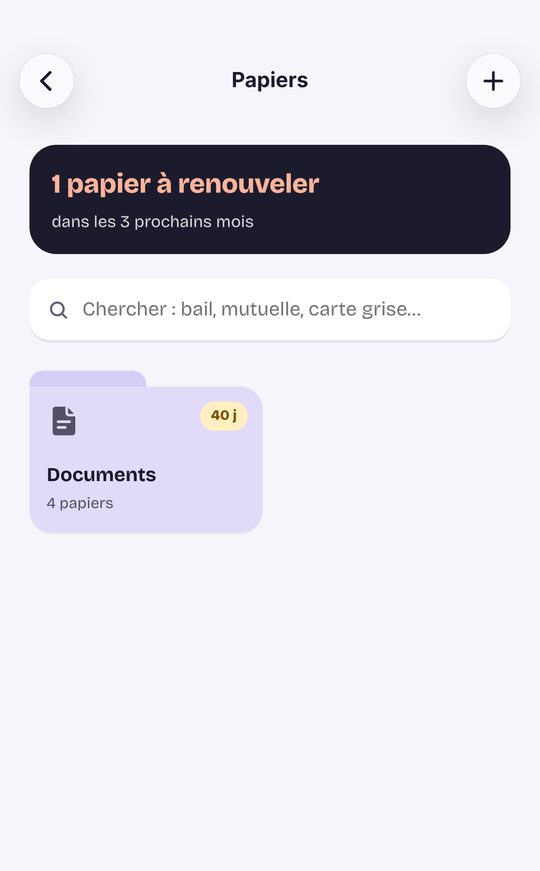
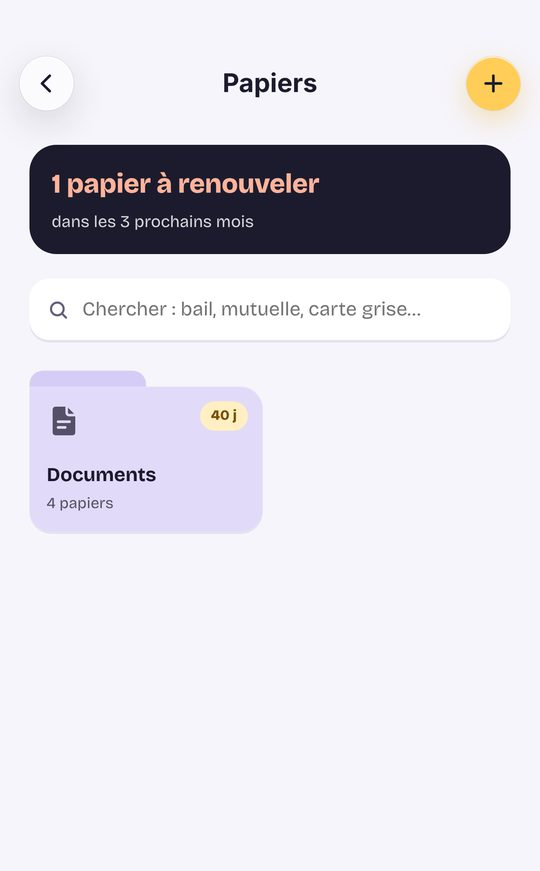
Site et App Store : boutons iOS comme dans l'app (même position, + jaune), glisser des cartes limité, flèches fixes
Claude-Session: https://claude.ai/code/session_014PtC1bhXvDyL6jkTpmKN4j

Changed region(s): [[0.4148, 0.062, 0.5926, 0.124], [0.8593, 0.062, 0.9778, 0.155], [0.0593, 0.093, 0.0889, 0.124]]

diff --git a/presentation/contenu.html b/presentation/contenu.html
@@ -94,12 +94,12 @@ section{padding-block:56px}
 /* « Tout le foyer, une seule appli » : paquet de cartes (shuffleCardSlider). Bande sombre ; à gauche le titre et le texte de la carte
    du dessus (couleur de la rubrique), flèches en bas ; à droite de grandes cartes verticales (un écran de l'app) empilées vers la droite. */
 #rubriques{background:#141320;color:#EDEBF7;padding-block:64px 80px;overflow:hidden}
-.sh{display:grid;grid-template-columns:minmax(0,1fr);gap:34px;align-items:center}
+.sh{display:grid;grid-template-columns:minmax(0,1fr);gap:34px;align-items:stretch}
 @media (min-width:880px){.sh{grid-template-columns:minmax(0,1fr) minmax(0,1fr);min-height:600px}}
-.sh-txt{display:flex;flex-direction:column;gap:14px;min-width:0}
+.sh-txt{display:flex;flex-direction:column;justify-content:center;gap:14px;min-width:0}
 .sh-txt .eyebrow{color:#A3A0BE}
 .sh-txt h2{font-size:clamp(38px,6vw,64px);line-height:1;letter-spacing:-.035em;color:var(--sc,#B9A8F0);transition:color .35s}
-.sh-txt .lead{color:#C9C6E0;max-width:42ch;min-height:4.8em}
+.sh-txt .lead{color:#C9C6E0;max-width:42ch}
 .sh-txt .fade{transition:opacity .25s,transform .25s}.sh-txt .fade.out{opacity:0;transform:translateY(6px)}
 .sh-nav{display:flex;gap:12px;margin-top:auto;padding-top:18px;align-items:center}
 .sh-nav button{width:76px;height:46px;border-radius:99px;border:1.5px solid rgba(255,255,255,.28);background:transparent;color:#EDEBF7;font:700 20px/1 var(--f-display);cursor:pointer;transition:background .2s,border-color .2s}
@@ -338,9 +338,15 @@ function shuffleCardSlider(o){
   const reduce=matchMedia("(prefers-reduced-motion: reduce)").matches, T1=reduce?0:300, T2=reduce?0:520;
   /* éventail : toutes les cartes tournent autour d'un point sous le paquet, de plus en plus inclinées et sombres */
   const fan=k=>"rotate("+(k*4.6)+"deg) scale("+(1-k*.012)+")";
-  const OUT="translateX(-118%) rotate(-14deg)";
+  const OUT="translateX(-46%) rotate(-11deg)";   /* sortie courte : la carte reste dans la zone du paquet */
   function text(ci){ const c=cards[ci], sw=()=>{ o.title.textContent=c.dataset.t; o.text.textContent=c.dataset.p; o.title.style.setProperty("--sc",c.dataset.c); o.num.textContent=(ci+1)+" / "+n; };
     if(reduce){ sw(); return; } [o.title,o.text].forEach(e=>e.classList.add("out")); setTimeout(()=>{ sw(); [o.title,o.text].forEach(e=>e.classList.remove("out")); },220); }
+  /* place réservée = le titre et le texte les plus hauts des 8 cartes : les flèches ne bougent plus d'une carte à l'autre */
+  function fit(){ for(const e of [o.title,o.text]) e.style.minHeight="0";
+    const cur=[o.title.textContent,o.text.textContent]; let ht=0, hp=0;
+    for(const c of cards){ o.title.textContent=c.dataset.t; o.text.textContent=c.dataset.p; ht=Math.max(ht,o.title.offsetHeight); hp=Math.max(hp,o.text.offsetHeight); }
+    o.title.textContent=cur[0]; o.text.textContent=cur[1]; o.title.style.minHeight=ht+"px"; o.text.style.minHeight=hp+"px"; }
+  fit(); addEventListener("resize",fit); if(document.fonts&&document.fonts.ready) document.fonts.ready.then(fit);
   function layout(){ order.forEach((ci,k)=>{ const c=cards[ci];
       c.style.zIndex=String(n-k); c.setAttribute("aria-hidden",k?"true":"false");
       c.style.filter="brightness("+Math.max(.42,1-k*.085)+")"; c.style.transform=fan(k); }); }
@@ -357,8 +363,9 @@ function shuffleCardSlider(o){
   /* glisser la carte du dessus (suivi sur toute la fenêtre) : au-delà de 80 px elle part, sinon elle revient */
   let x0=null,dx=0,id=null;
   deck.addEventListener("pointerdown",e=>{ const top=cards[order[0]]; if(busy||!top.contains(e.target)) return; e.preventDefault(); x0=e.clientX; dx=0; id=e.pointerId; top.classList.add("drag"); });
-  addEventListener("pointermove",e=>{ if(x0==null||e.pointerId!==id) return; dx=e.clientX-x0; cards[order[0]].style.transform="translateX("+dx+"px) rotate("+(dx/18)+"deg)"; });
-  const end=e=>{ if(x0==null||e.pointerId!==id) return; x0=null; cards[order[0]].classList.remove("drag"); if(Math.abs(dx)>80) go(1); else layout(); };   /* glissée d'un côté ou de l'autre : la carte repasse derrière */
+  addEventListener("pointermove",e=>{ if(x0==null||e.pointerId!==id) return; dx=e.clientX-x0; const L=150, d=Math.abs(dx)<=L?dx:Math.sign(dx)*(L+(Math.abs(dx)-L)*.15);   /* au-delà de 150 px, elle résiste puis s'arrête */
+    cards[order[0]].style.transform="translateX("+d+"px) rotate("+(d/18)+"deg)"; });
+  const end=e=>{ if(x0==null||e.pointerId!==id) return; x0=null; cards[order[0]].classList.remove("drag"); if(Math.abs(dx)>70) go(1); else layout(); };   /* glissée d'un côté ou de l'autre : la carte repasse derrière */
   addEventListener("pointerup",end); addEventListener("pointercancel",end);
   layout(); text(order[0]); }
 shuffleCardSlider({deck:document.getElementById("deck"),prev:document.getElementById("deckPrev"),next:document.getElementById("deckNext"),

diff --git a/presentation/index.html b/presentation/index.html
@@ -95,12 +95,12 @@ section{padding-block:56px}
 /* « Tout le foyer, une seule appli » : paquet de cartes (shuffleCardSlider). Bande sombre ; à gauche le titre et le texte de la carte
    du dessus (couleur de la rubrique), flèches en bas ; à droite de grandes cartes verticales (un écran de l'app) empilées vers la droite. */
 #rubriques{background:#141320;color:#EDEBF7;padding-block:64px 80px;overflow:hidden}
-.sh{display:grid;grid-template-columns:minmax(0,1fr);gap:34px;align-items:center}
+.sh{display:grid;grid-template-columns:minmax(0,1fr);gap:34px;align-items:stretch}
 @media (min-width:880px){.sh{grid-template-columns:minmax(0,1fr) minmax(0,1fr);min-height:600px}}
-.sh-txt{display:flex;flex-direction:column;gap:14px;min-width:0}
+.sh-txt{display:flex;flex-direction:column;justify-content:center;gap:14px;min-width:0}
 .sh-txt .eyebrow{color:#A3A0BE}
 .sh-txt h2{font-size:clamp(38px,6vw,64px);line-height:1;letter-spacing:-.035em;color:var(--sc,#B9A8F0);transition:color .35s}
-.sh-txt .lead{color:#C9C6E0;max-width:42ch;min-height:4.8em}
+.sh-txt .lead{color:#C9C6E0;max-width:42ch}
 .sh-txt .fade{transition:opacity .25s,transform .25s}.sh-txt .fade.out{opacity:0;transform:translateY(6px)}
 .sh-nav{display:flex;gap:12px;margin-top:auto;padding-top:18px;align-items:center}
 .sh-nav button{width:76px;height:46px;border-radius:99px;border:1.5px solid rgba(255,255,255,.28);background:transparent;color:#EDEBF7;font:700 20px/1 var(--f-display);cursor:pointer;transition:background .2s,border-color .2s}
@@ -339,9 +339,15 @@ function shuffleCardSlider(o){
   const reduce=matchMedia("(prefers-reduced-motion: reduce)").matches, T1=reduce?0:300, T2=reduce?0:520;
   /* éventail : toutes les cartes tournent autour d'un point sous le paquet, de plus en plus inclinées et sombres */
   const fan=k=>"rotate("+(k*4.6)+"deg) scale("+(1-k*.012)+")";
-  const OUT="translateX(-118%) rotate(-14deg)";
+  const OUT="translateX(-46%) rotate(-11deg)";   /* sortie courte : la carte reste dans la zone du paquet */
   function text(ci){ const c=cards[ci], sw=()=>{ o.title.textContent=c.dataset.t; o.text.textContent=c.dataset.p; o.title.style.setProperty("--sc",c.dataset.c); o.num.textContent=(ci+1)+" / "+n; };
     if(reduce){ sw(); return; } [o.title,o.text].forEach(e=>e.classList.add("out")); setTimeout(()=>{ sw(); [o.title,o.text].forEach(e=>e.classList.remove("out")); },220); }
+  /* place réservée = le titre et le texte les plus hauts des 8 cartes : les flèches ne bougent plus d'une carte à l'autre */
+  function fit(){ for(const e of [o.title,o.text]) e.style.minHeight="0";
+    const cur=[o.title.textContent,o.text.textContent]; let ht=0, hp=0;
+    for(const c of cards){ o.title.textContent=c.dataset.t; o.text.textContent=c.dataset.p; ht=Math.max(ht,o.title.offsetHeight); hp=Math.max(hp,o.text.offsetHeight); }
+    o.title.textContent=cur[0]; o.text.textContent=cur[1]; o.title.style.minHeight=ht+"px"; o.text.style.minHeight=hp+"px"; }
+  fit(); addEventListener("resize",fit); if(document.fonts&&document.fonts.ready) document.fonts.ready.then(fit);
   function layout(){ order.forEach((ci,k)=>{ const c=cards[ci];
       c.style.zIndex=String(n-k); c.setAttribute("aria-hidden",k?"true":"false");
       c.style.filter="brightness("+Math.max(.42,1-k*.085)+")"; c.style.transform=fan(k); }); }
@@ -358,8 +364,9 @@ function shuffleCardSlider(o){
   /* glisser la carte du dessus (suivi sur toute la fenêtre) : au-delà de 80 px elle part, sinon elle revient */
   let x0=null,dx=0,id=null;
   deck.addEventListener("pointerdown",e=>{ const top=cards[order[0]]; if(busy||!top.contains(e.target)) return; e.preventDefault(); x0=e.clientX; dx=0; id=e.pointerId; top.classList.add("drag"); });
-  addEventListener("pointermove",e=>{ if(x0==null||e.pointerId!==id) return; dx=e.clientX-x0; cards[order[0]].style.transform="translateX("+dx+"px) rotate("+(dx/18)+"deg)"; });
-  const end=e=>{ if(x0==null||e.pointerId!==id) return; x0=null; cards[order[0]].classList.remove("drag"); if(Math.abs(dx)>80) go(1); else layout(); };   /* glissée d'un côté ou de l'autre : la carte repasse derrière */
+  addEventListener("pointermove",e=>{ if(x0==null||e.pointerId!==id) return; dx=e.clientX-x0; const L=150, d=Math.abs(dx)<=L?dx:Math.sign(dx)*(L+(Math.abs(dx)-L)*.15);   /* au-delà de 150 px, elle résiste puis s'arrête */
+    cards[order[0]].style.transform="translateX("+d+"px) rotate("+(d/18)+"deg)"; });
+  const end=e=>{ if(x0==null||e.pointerId!==id) return; x0=null; cards[order[0]].classList.remove("drag"); if(Math.abs(dx)>70) go(1); else layout(); };   /* glissée d'un côté ou de l'autre : la carte repasse derrière */
   addEventListener("pointerup",end); addEventListener("pointercancel",end);
   layout(); text(order[0]); }
 shuffleCardSlider({deck:document.getElementById("deck"),prev:document.getElementById("deckPrev"),next:document.getElementById("deckNext"),

diff --git a/outils/appstore/ios.js b/outils/appstore/ios.js
@@ -13,8 +13,10 @@
   #iosHome{position:fixed;left:50%;bottom:8px;width:140px;height:5px;margin-left:-70px;border-radius:9px;background:#1C1B2E;z-index:10000}
   #iosTop{position:fixed;left:0;right:0;z-index:9998;display:flex;align-items:center;justify-content:space-between;padding:0 16px;pointer-events:none}
   #iosTop .b{width:44px;height:44px;border-radius:50%;display:grid;place-items:center;color:#1C1B2E}
-  #iosTop .b svg{width:22px;height:22px}
-  #iosTop b{font:700 17px/1 -apple-system,"SF Pro Text","Bricolage Grotesque",sans-serif;color:#1C1B2E}
+  #iosTop .b svg{width:20px;height:20px}
+  #iosTop .b.pro{background:rgba(255,201,74,.92);box-shadow:inset 0 1px 0 rgba(255,255,255,.7),0 0 0 .5px rgba(28,27,46,.10),0 8px 22px rgba(232,160,0,.28)}
+  #iosTop .acts{display:flex;gap:10px}
+  #iosTop b{position:absolute;left:50%;transform:translateX(-50%);font:700 21px/1 -apple-system,"SF Pro Display","Bricolage Grotesque",sans-serif;color:#1C1B2E;white-space:nowrap}
   #iosTop .sp{width:44px}`;
   document.head.append(css);
   const I={
@@ -22,7 +24,8 @@
     people:'<svg viewBox="0 0 24 24"><circle cx="9" cy="8" r="3.6" fill="currentColor"/><circle cx="17.2" cy="9" r="2.8" fill="currentColor"/><path d="M2.5 19.2c0-3.4 2.9-5.6 6.5-5.6s6.5 2.2 6.5 5.6c0 .8-.5 1.3-1.3 1.3H3.8c-.8 0-1.3-.5-1.3-1.3Z" fill="currentColor"/><path d="M16.3 20.5h4.1c.7 0 1.1-.4 1.1-1.1 0-2.6-2-4.4-4.6-4.4-.9 0-1.7.2-2.4.6 1.2 1.1 1.9 2.6 1.9 4.4 0 .2 0 .3-.1.5Z" fill="currentColor"/></svg>',
     person:'<svg viewBox="0 0 24 24"><circle cx="12" cy="12" r="9.6" fill="none" stroke="currentColor" stroke-width="1.8"/><circle cx="12" cy="9.6" r="3.4" fill="currentColor"/><path d="M5.9 18.3c1.3-2 3.5-3.2 6.1-3.2s4.8 1.2 6.1 3.2" fill="none" stroke="currentColor" stroke-width="1.8" stroke-linecap="round"/></svg>',
     back:'<svg viewBox="0 0 24 24"><path d="M15 4.5 7.5 12l7.5 7.5" fill="none" stroke="currentColor" stroke-width="2.6" stroke-linecap="round" stroke-linejoin="round"/></svg>',
-    plus:'<svg viewBox="0 0 24 24"><path d="M12 4.5v15M4.5 12h15" fill="none" stroke="currentColor" stroke-width="2.4" stroke-linecap="round"/></svg>'};
+    plus:'<svg viewBox="0 0 24 24"><path d="M12 4.5v15M4.5 12h15" fill="none" stroke="currentColor" stroke-width="2.6" stroke-linecap="round"/></svg>',
+    cal:'<svg viewBox="0 0 24 24"><rect x="3.5" y="5" width="17" height="15.5" rx="3" fill="none" stroke="currentColor" stroke-width="2"/><path d="M3.5 10h17M8 3v4M16 3v4" stroke="currentColor" stroke-width="2" stroke-linecap="round"/></svg>'};
   window.__ios=function(on){
     document.documentElement.classList.add("native-tabs");
     document.querySelectorAll("#iosTab,#iosHome,#iosTop").forEach(e=>e.remove());
@@ -33,8 +36,12 @@
     const h=document.createElement("div"); h.id="iosHome"; document.body.append(h);
     /* barre du haut d'une rubrique : la barre web (cachée en mode natif) donne la position, le titre et s'il y a un « + » */
     const bar=document.querySelector(".view:not([hidden]) .hub-bar");
-    if(bar){ const r=bar.getBoundingClientRect(), tt=(bar.querySelector(".hb-title,b")||{}).textContent||"", add=!!bar.querySelector(".hub-add");
-      const top=document.createElement("div"); top.id="iosTop"; top.style.top=Math.round(r.top+r.height/2-22)+"px";
-      top.innerHTML='<span class="b ios-glass">'+I.back+'</span><b>'+tt+'</b>'+(add?'<span class="b ios-glass">'+I.plus+'</span>':'<span class="sp"></span>'); document.body.append(top); }
+    /* comme l'app (sync → NT.topbar) : position = offsetTop de la barre web (sans les animations d'arrivée), retour en verre,
+       « sync » = calendrier en verre, « + » = verre jaune (prominentGlass), titre en 21 pt gras */
+    if(bar){ let y=0; for(let n=bar;n;n=n.offsetParent) y+=n.offsetTop; y-=scrollY;
+      const tt=(bar.querySelector(".hb-title")||{}).textContent||"", back=!!bar.querySelector(".hub-back,.pg-back");
+      const acts=(bar.querySelector(".hub-sync")?'<span class="b ios-glass">'+I.cal+'</span>':"")+(bar.querySelector(".hub-add")?'<span class="b ios-glass pro">'+I.plus+'</span>':"");
+      const top=document.createElement("div"); top.id="iosTop"; top.style.top=Math.round(y+Math.max(0,(bar.offsetHeight-44)/2))+"px"; top.style.height="44px";
+      top.innerHTML=(back?'<span class="b ios-glass">'+I.back+'</span>':'<span class="sp"></span>')+'<b>'+tt+'</b><span class="acts">'+(acts||'<span class="sp"></span>')+'</span>'; document.body.append(top); }
   };
 })();

diff --git a/index.html b/index.html
@@ -53,7 +53,7 @@ html[data-theme="light"] #cxIntro{background:#F6F5FB!important}html[data-theme="
 <link rel="preconnect" href="https://fonts.googleapis.com">
 <link rel="preconnect" href="https://fonts.gstatic.com" crossorigin>
 <link rel="stylesheet" href="https://fonts.googleapis.com/css2?family=Bricolage+Grotesque:opsz,wght@12..96,300..800&family=Fredoka:wdth,wght@75..125,300..700&display=swap">
-<script>window.COCOON_BUILD="23/10 16:34";</script>
+<script>window.COCOON_BUILD="23/10 16:42";</script>
 <script src="config.js"></script>
 <script id="sbjs" async src="https://cdn.jsdelivr.net/npm/@supabase/supabase-js@2.45.4/dist/umd/supabase.js"></script>
 <script src="cocoon-runtime.js"></script>

diff --git a/CLAUDE.md b/CLAUDE.md
@@ -113,7 +113,7 @@ Catégories de tâches perso : `CAT[id]` avec `perso:true`, retrouvées via `cat
 - **Images App Store** (style « affiche dégradée » choisi par Angel : dégradé Cocoon Plus, logo + « Cocoon » en Fredoka comme l'app,
   titre blanc, téléphone incliné, Cocoony en coin, pas d'autocollant) : `app/appstore/appstore-1…7.jpg` (1320×2868, iPhone 6,9").
   Captures habillées « app iPhone » par `outils/appstore/ios.js` (`__ios(onglet)` : barre d'onglets Liquid Glass flottante,
-  boutons ronds en verre retour/+ et titre, barre d'accueil) ; même cadre iPhone Pro Max que le site, téléphone entier, Cocoony en haut à droite.
+  barre du haut comme `NT.topbar` : même position (offsetTop), retour en verre, calendrier en verre, « + » en verre jaune, titre 21 pt ; barre d'accueil) ; même cadre iPhone Pro Max que le site, téléphone entier, Cocoony en haut à droite.
   Pour les refaire : `bash outils/construire.sh demo` puis `python3 outils/appstore/captures.py` (foyer d'exemple `seed.js`, écrans dans
   `outils/appstore/raw/`) puis `python3 outils/appstore/affiches.py` (titres dans `PAGES`).
 - Page de présentation : `presentation/contenu.html` (à modifier, publiable tel quel en artefact, images dans `presentation/img/`)
@@ -122,7 +122,8 @@ Catégories de tâches perso : `CAT[id]` avec `perso:true`, retrouvées via `cat
   carrousel de 7 écrans, tarifs en « deux affiches » comme dans l'app. Téléphones fixes façon iPhone Pro Max (`.phone > .fr > .scr`, cadre titane,
   Dynamic Island, unités `cqw`), bandeau du haut à angles droits, pas de « L'appli du foyer ». Rubriques = bande sombre façon « card shuffle » (modèle
   envoyé par Angel) : titre coloré + texte à gauche qui suivent la carte, flèches en bas, grandes cartes verticales (écrans `img/c-*.jpg`)
-  en éventail (pivot sous le paquet) ; la carte balayée sort à gauche puis repasse derrière toutes les autres ; `shuffleCardSlider({deck,prev,next,title,text,num})` (glisser, flèches ‹ ›, clavier ←/→). Images `presentation/img/*.jpg` = captures de
+  en éventail (pivot sous le paquet) ; la carte balayée sort à gauche (sortie courte, glisser limité à ~150 px avec résistance) puis repasse derrière toutes les autres ;
+  flèches fixes (`fit()` réserve la hauteur du titre et du texte les plus longs) ; `shuffleCardSlider({deck,prev,next,title,text,num})` (glisser, flèches ‹ ›, clavier ←/→). Images `presentation/img/*.jpg` = captures de
   `outils/appstore/raw/` réduites à 600 px de large.
 - Prochaines idées : notifications natives (APNs), paiement Premium, test Android, animations du personnage (format Lottie ou Rive, une animation par humeur, à mettre dans `outils/src/anim/`).
 - À faire côté Angel : redéployer `cocoon-push`, coller les modèles d'e-mail, vérifier OTP à 6 chiffres, brancher Brevo (codeEmail).
